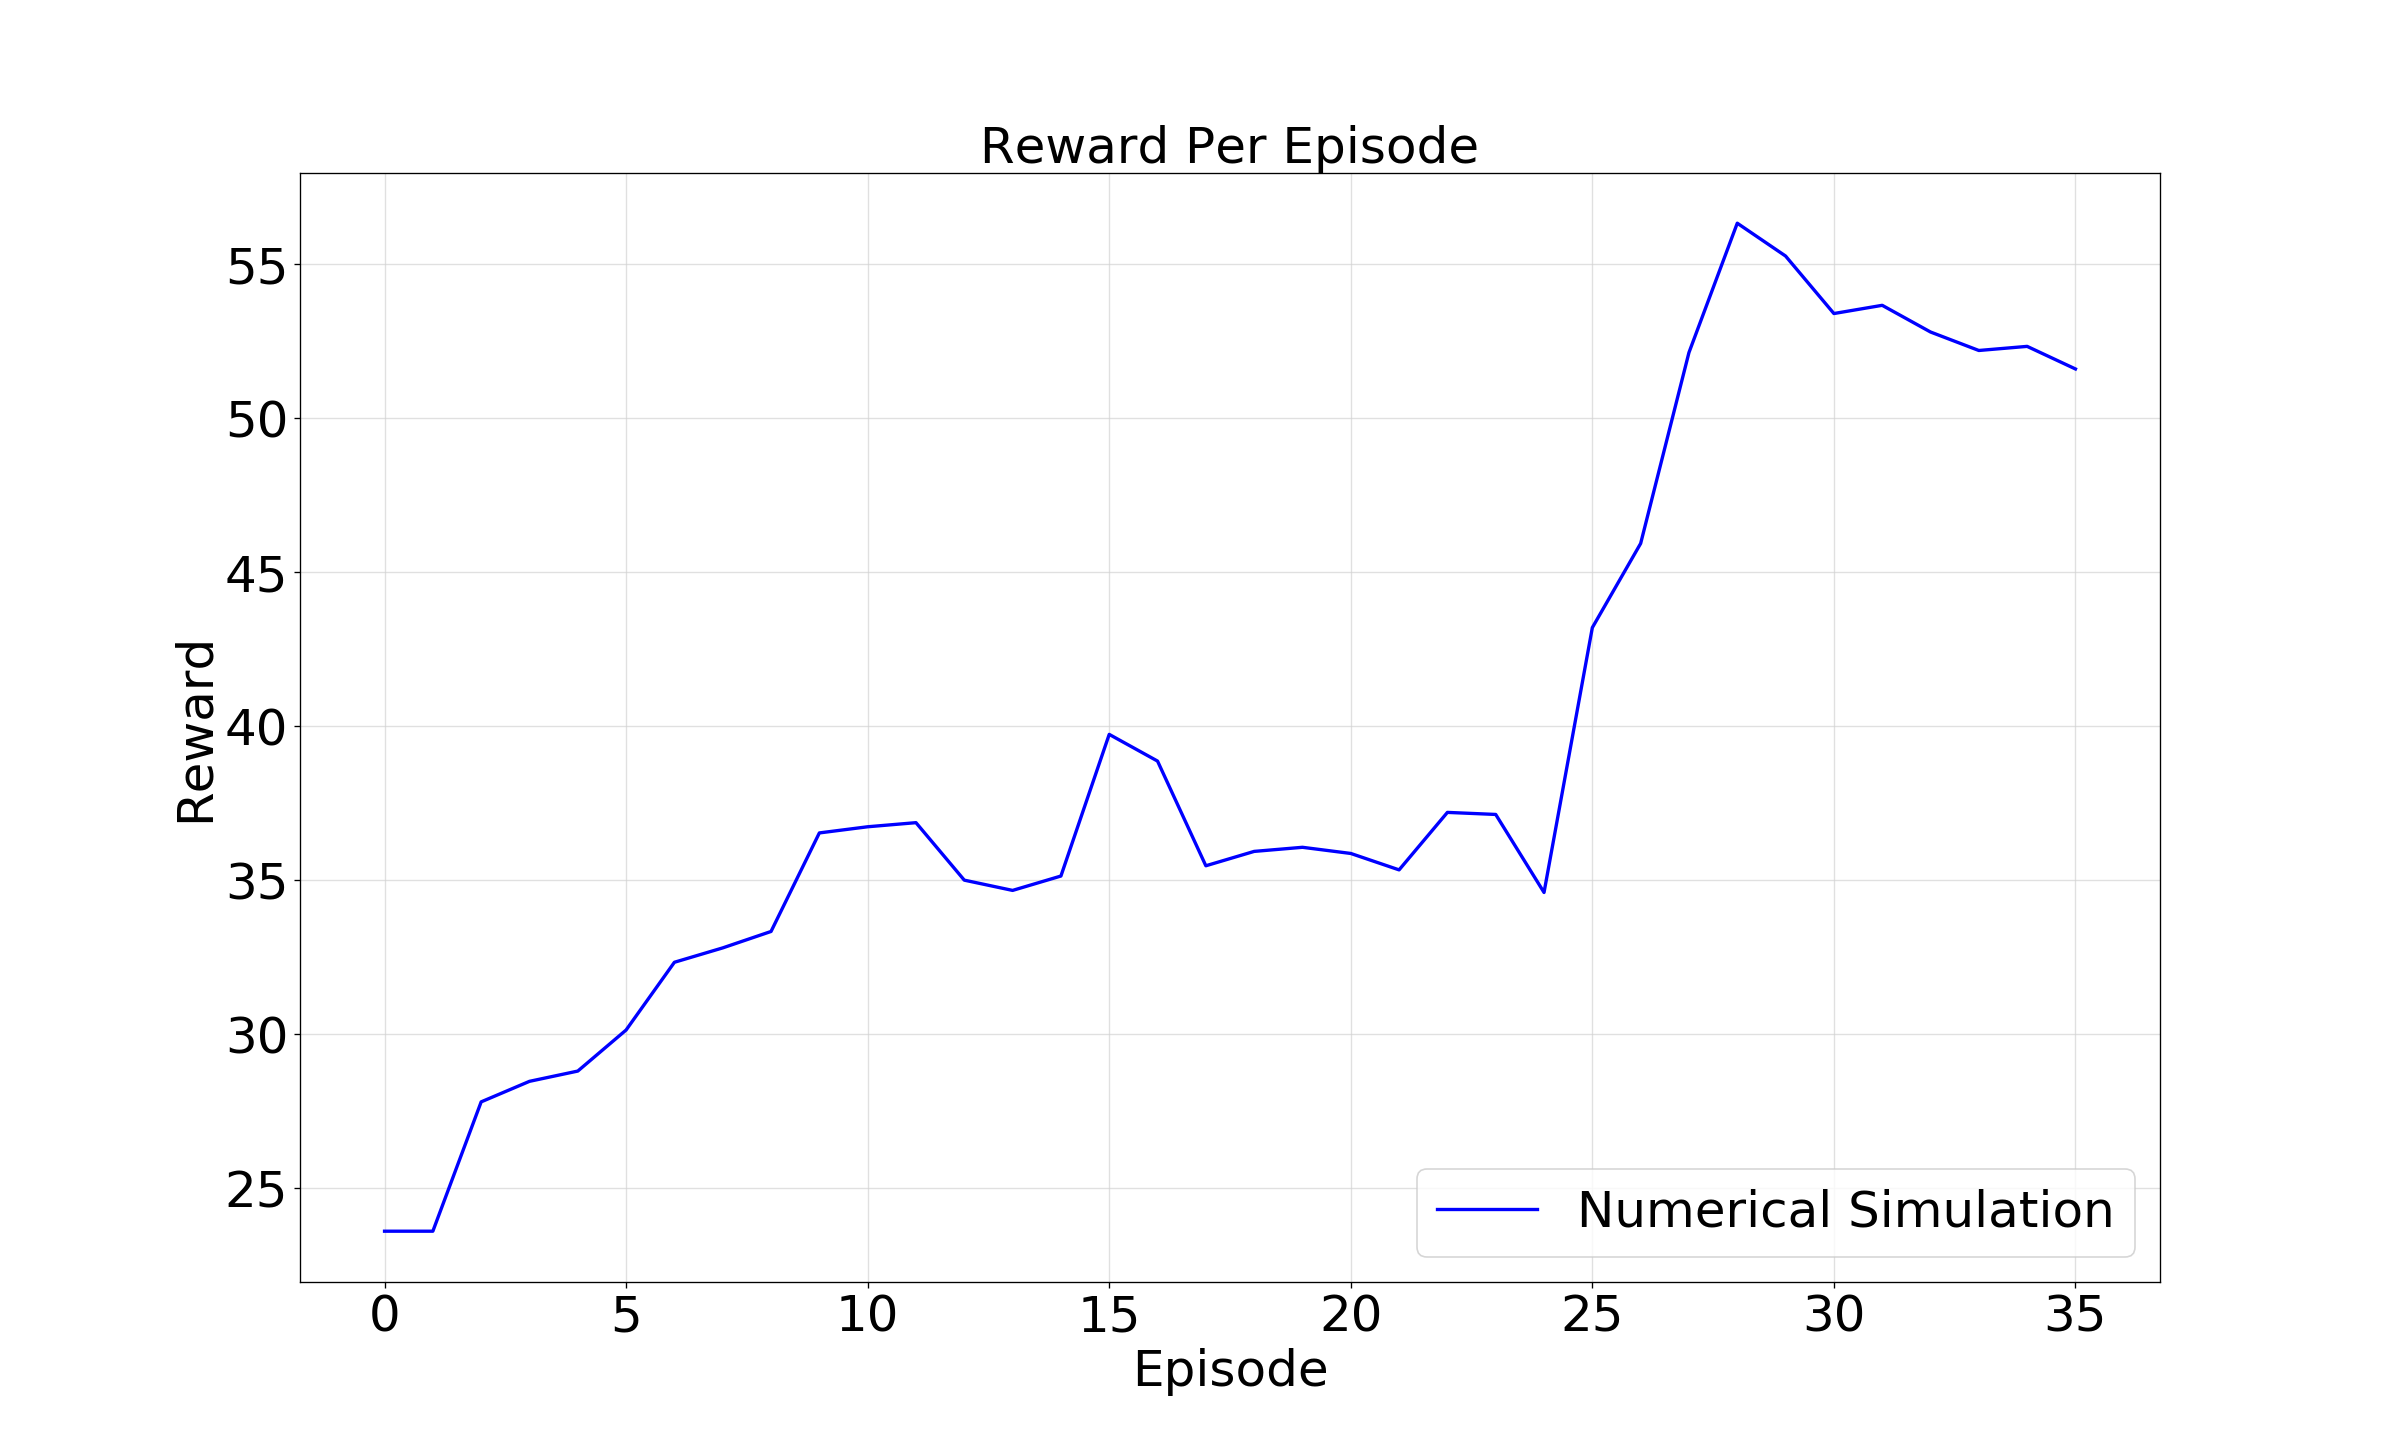
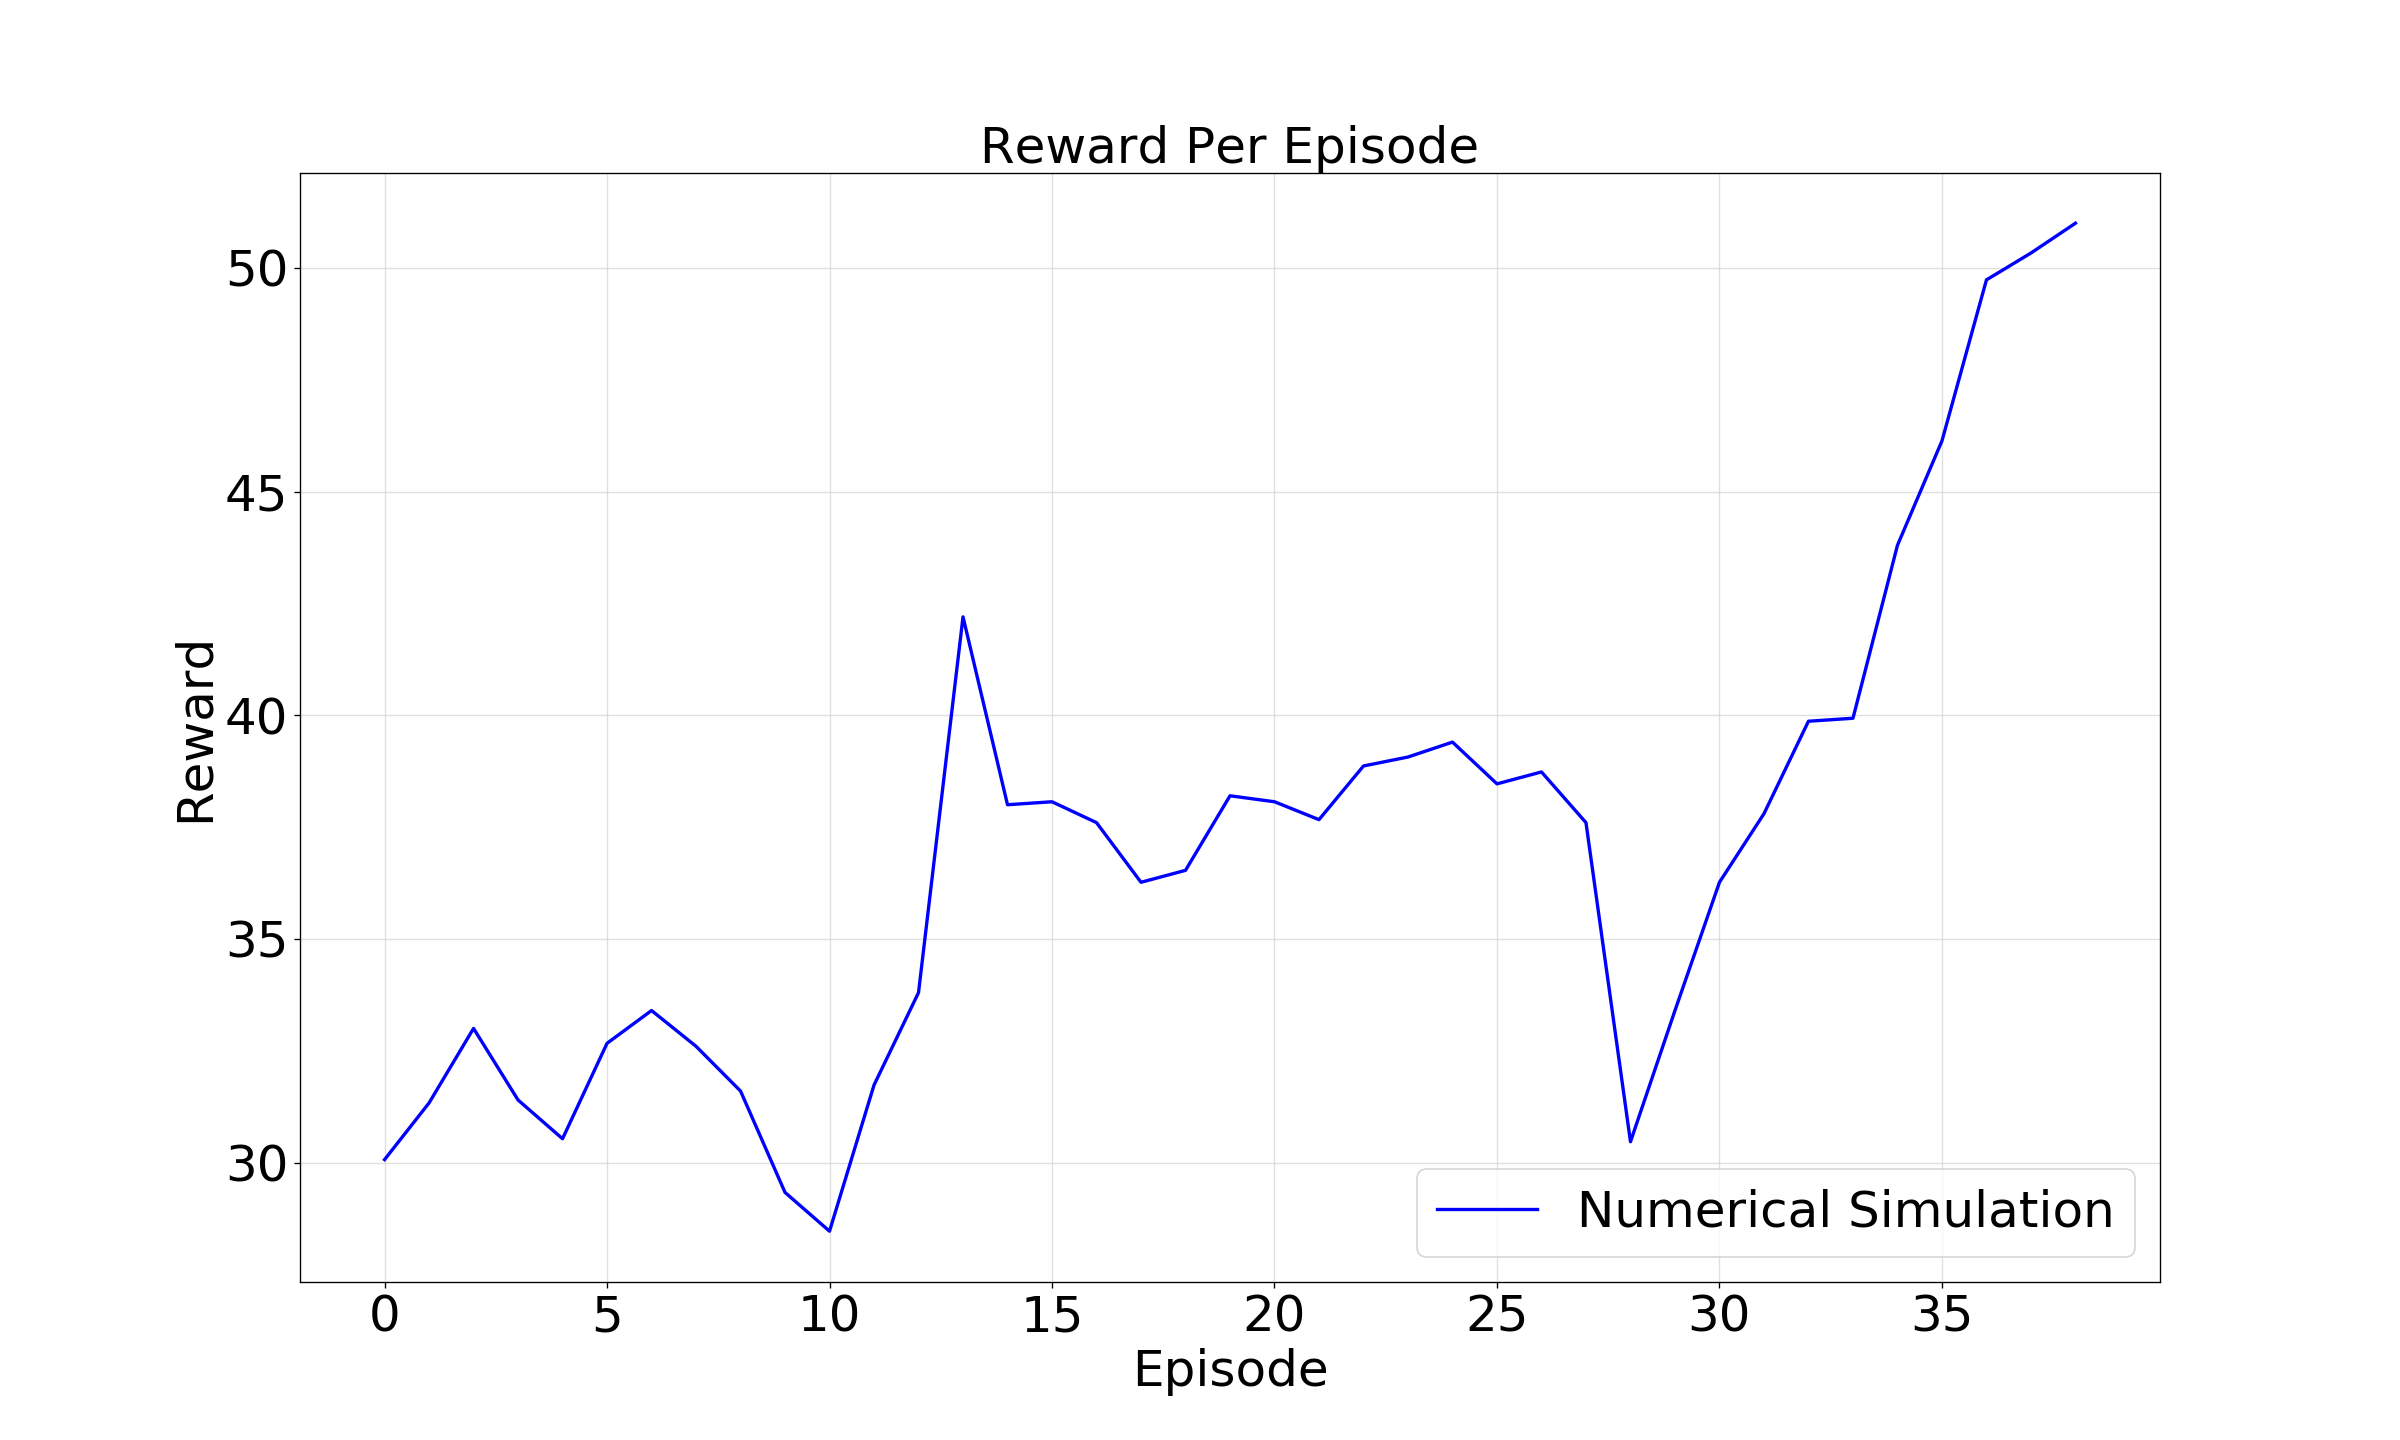
Atualizações feitas no modelo numerico

diff --git a/Inverted Pendulum/InvertedPendulum_Numerico.py b/Inverted Pendulum/InvertedPendulum_Numerico.py
@@ -23,6 +23,16 @@ PICK_FROM_BUFFER_SIZE = int(linelist[7])
 BUFFER_LEN = 200000
 EPSILON = 1
 
+#Definindo parâmetros da rede neural
+netlist = [line.rstrip('\n') for line in open("network.txt")]
+NUMBER_OF_LAYERS = int(netlist[0])
+NEURONS_PER_LAYER = []
+for i in range(NUMBER_OF_LAYERS):
+    NEURONS_PER_LAYER.append(int(netlist[i+1]))
+if(len(NEURONS_PER_LAYER)!=NUMBER_OF_LAYERS):
+    pf("INCONSISTENCIA NA INSERCAO DE CAMADAS E NEURONIOS POR CAMADA", flush=True)
+    exit()
+
 def pf(string, **kwargs):
     if ("flush") in kwargs:
         print(string, **kwargs)
@@ -60,12 +70,16 @@ class DQN_Agent:
 #Modelando a rede neural
     def create_network(self):
         model = models.Sequential()
+        
         #Pega o tamanho do espaço de observações do ambiente
         state_shape = self.env.observation_space.shape
 
-        #A rede tem duas hidden layers, uma com 24 nós e outra com 48
-        model.add(layers.Dense(32, activation='relu', input_shape=state_shape))
-        model.add(layers.Dense(16, activation='relu'))
+        #A rede tem arquitetura escolhida pelo usuário
+        for i in range(NUMBER_OF_LAYERS):
+            if(i == 0):
+                model.add(layers.Dense(NEURONS_PER_LAYER[0], activation='relu', input_shape=state_shape))
+            else:
+                model.add(layers.Dense(NEURONS_PER_LAYER[i], activation='relu'))
         #O tamanho da output layer é igual ao tamanho do espaço de ações
         model.add(layers.Dense(self.env.action_space.n, activation='linear'))
 

diff --git a/Inverted Pendulum/InvertedPendulum_Mujoco.py b/Inverted Pendulum/InvertedPendulum_Mujoco.py
@@ -217,7 +217,7 @@ class DQN_Agent:
 
                 #Caso tenha concluído no step atual, dá um break no loop
                 if done:
-                    pf("Episodio: " + str(eps).zfill(3) + " || " + str(i).zfill(3) + " Steps" + " || Reward: " + str(reward_sum).zfill(3) + " || EPSILON: " + '{:.3f}'.format(self.epsilon), flush=True)
+                    pf("Episodio: " + str(eps).zfill(3) + " || " + str(i).zfill(3) + " Steps" + " || Reward: " + str(reward_sum).zfill(4) + " || EPSILON: " + '{:.3f}'.format(self.epsilon), flush=True)
                     self.train_network.save('./model_inverted_mujoco/model_mujoco.h5')
                     break
 
